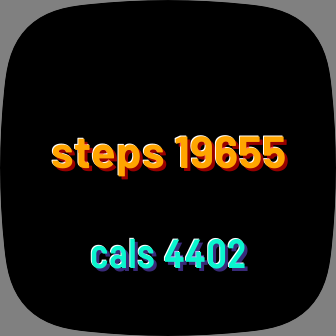
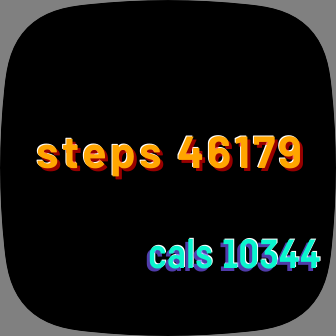
.

Changed region(s): [[0.0893, 0.3869, 0.9226, 0.5357], [0.2679, 0.6845, 0.9524, 0.8333]]

diff --git a/resources/styles.css b/resources/styles.css
@@ -4,10 +4,9 @@
     fill:black;
 }
 
-#myLabel .myText {
-    text-length: 30;
+#myLabel .myText {   
     text-anchor: middle;
-    letter-spacing: 5;
+    letter-spacing: 3;
 }
 
 #myLabel #highlight {
@@ -28,19 +27,22 @@
 }
 #myLabel2 #highlight {
     fill: white;   
-    x: -1;
+    x: 1;
     y: -1;
 }
 #myLabel2 #shadow { 
     fill: #7356f5;
-    x: 3;
+    x: -3;
     y:3;
-    opacity: 0.5;
+    opacity: 0.7;
 }
-#myLabel2 #main {
-  
+#myLabel2 #main {  
     fill: #0af5ce;
     x:0;
     y:0;
    
+}
+#myLabel2 .myText {   
+    text-anchor: start;
+    letter-spacing:0;
 }

diff --git a/app/index.ts b/app/index.ts
@@ -13,6 +13,7 @@ let myLabel2 = document.getElementById('myLabel2') as ShadowTextWidget;
 const update = () => {
   myLabel.text = `steps ${today.adjusted.steps}`;
   myLabel2.text = `cals ${today.adjusted.calories}`;
+  myLabel2.textAnchor = "middle";
 }
 setInterval(update, 1000);
 console.log(myLabel.text)
